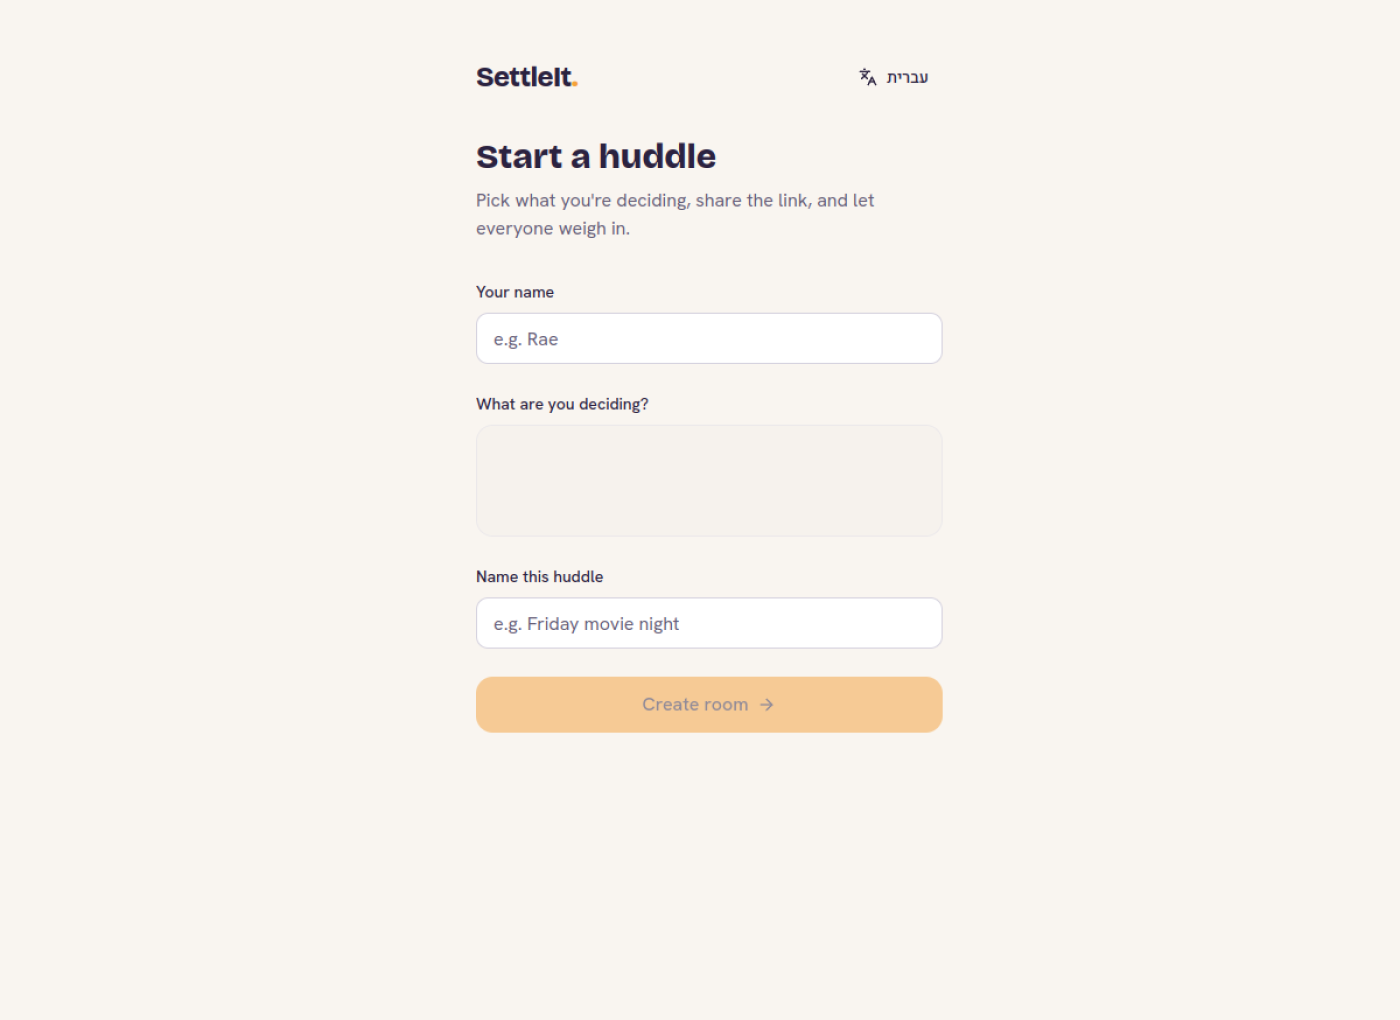
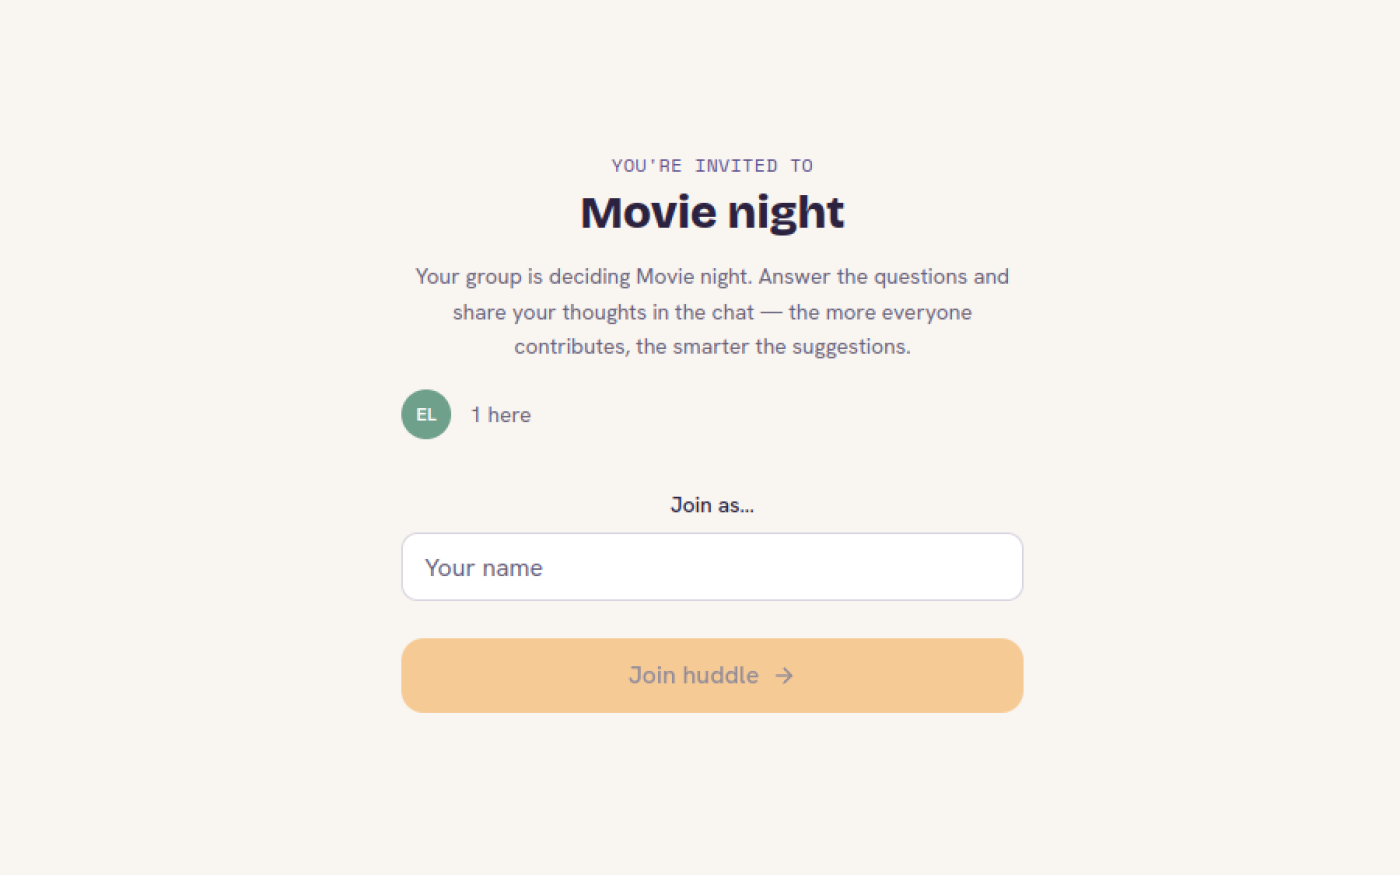
Replace SettleIt screenshot with live decision room
Swaps the empty landing form for a real "Movie night" room (invite +
participant + join), captured now that the backend was warm. Updates alt text.

diff --git a/src/data/projects.ts b/src/data/projects.ts
@@ -54,7 +54,7 @@ export const PROJECTS: Project[] = [
     live: 'https://settle-it-two.vercel.app/',
     image: {
       src: '/shots/settleit.png',
-      alt: 'SettleIt — "Start a huddle" screen for creating a group decision room',
+      alt: 'SettleIt — live "Movie night" decision room, inviting the group to join and weigh in',
     },
     role:
       'Team project — my role: architecture + backend (async FastAPI, WebSocket layer, schema, LLM provider abstraction).',